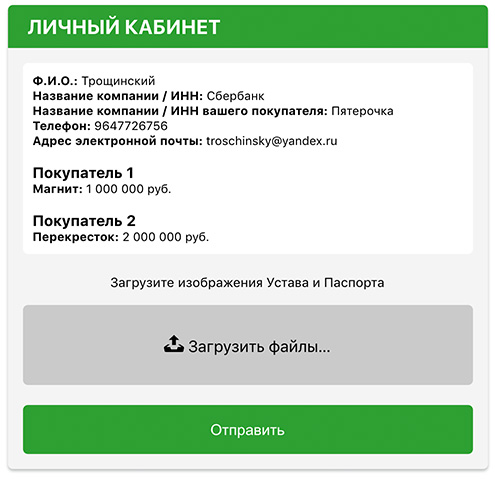
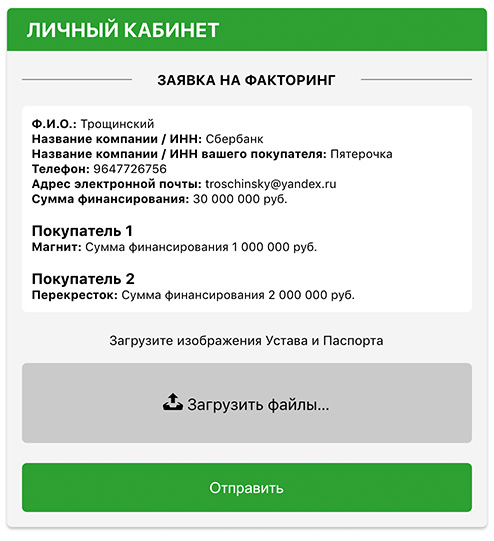
add

diff --git a/build/static/js/main.0f7b8055.chunk.js b/build/static/js/main.0f7b8055.chunk.js
@@ -1,0 +1,2 @@
+(this.webpackJsonpsbf_form_test=this.webpackJsonpsbf_form_test||[]).push([[0],{100:function(e,t,a){e.exports=a(208)},168:function(e,t,a){},169:function(e,t,a){},208:function(e,t,a){"use strict";a.r(t);var n=a(0),r=a.n(n),l=a(44),c=a.n(l),m=a(17),i=a(31),o=a(8),u=a(93),s=a(211),d=a(97),p=a(18),E={buyerForms:[],orderData:{},buyerData:[],step:"1"},b=function(e){return{type:"IS_STEP",step:e}},f=function(){var e=arguments.length>0&&void 0!==arguments[0]?arguments[0]:E,t=arguments.length>1?arguments[1]:void 0;switch(t.type){case"ADD_BUYER":return Object(p.a)(Object(p.a)({},e),{},{buyerForms:[].concat(Object(d.a)(e.buyerForms),[t.formArray])});case"IS_STEP":return Object(p.a)(Object(p.a)({},e),{},{step:t.step});case"SET_ORDER_DATA":return Object(p.a)(Object(p.a)({},e),{},{orderData:t.data});case"SET_BUYER_DATA":return Object(p.a)(Object(p.a)({},e),{},{buyerData:t.dataBuyer});default:return e}},y=Object(o.c)({dataReduser:f,form:s.a}),g=Object(o.d)(y,Object(o.a)(u.a)),v=(a(168),a(7)),_=(a(169),a(6)),h=a.n(_),B=a(46),x=a(98),F=a(210),D=a(209),S=a(95),A=a(96),O=a.n(A),j={required:function(e){return e?void 0:"\u041e\u0431\u044f\u0437\u0430\u0442\u0435\u043b\u044c\u043d\u043e\u0435 \u0434\u043b\u044f \u0437\u0430\u043f\u043e\u043b\u043d\u0435\u043d\u0438\u044f \u043f\u043e\u043b\u0435"},email:function(e){return e&&!/^[A-Z0-9._%+-]+@[A-Z0-9.-]+\.[A-Z]{2,4}$/i.test(e)?"\u041d\u0435\u043a\u043e\u0440\u0440\u0435\u043a\u0442\u043d\u044b\u0439 \u0430\u0434\u0440\u0435\u0441 \u044d\u043b\u0435\u043a\u0442\u0440\u043e\u043d\u043d\u043e\u0439 \u043f\u043e\u0447\u0442\u044b":void 0},phone:function(e){return function(t){return t.toString().length&&t.toString().length<e?"\u041d\u0435\u043a\u043e\u0440\u0440\u0435\u043a\u0442\u043d\u044b\u0439 \u043d\u043e\u043c\u0435\u0440 \u0442\u0435\u043b\u0435\u0444\u043e\u043d\u0430":void 0}},maxValue:function(e){return function(t){return parseInt(t.replace(/\s/g,""))&&parseInt(t.replace(/\s/g,""))>e?"\u0421\u0443\u043c\u043c\u0430 \u0434\u043e\u043b\u0436\u043d\u0430 \u0431\u044b\u0442\u044c \u043d\u0435 \u0431\u043e\u043b\u044c\u0448\u0435 ".concat(e.toString().replace(/\B(?=(\d{3})+(?!\d))/g," ")," \u0440\u0443\u0431."):void 0}},minValue:function(e){return function(t){return parseInt(t.replace(/\s/g,""))&&parseInt(t.replace(/\s/g,""))<e?"\u0421\u0443\u043c\u043c\u0430 \u0434\u043e\u043b\u0436\u043d\u0430 \u0431\u044b\u0442\u044c \u043d\u0435 \u043c\u0435\u043d\u044c\u0448\u0435 ".concat(e.toString().replace(/\B(?=(\d{3})+(?!\d))/g," ")," \u0440\u0443\u0431."):void 0}},rank:function(e){return e&&e.replace(/[^\d]/g,"").replace(/\B(?=(?:\d{3})+(?!\d))/g," ")}},T=function(e){var t=e.input,a=e.label,n=e.type,l=e.meta,c=l.touched,m=l.error,i=l.warning;return r.a.createElement("div",null,r.a.createElement("div",null,r.a.createElement("input",Object.assign({className:c&&(m||i)?h.a.inputError:h.a.inputStyle},t,{placeholder:a,type:n})),c&&(m&&r.a.createElement("div",{className:h.a.warningText},m)||i&&r.a.createElement("div",null,i))))},w=Object(S.createTextMask)({pattern:"+7(999)999-99-99"}),N=function(e){return r.a.createElement(r.a.Fragment,null,r.a.createElement("div",{className:h.a.line},r.a.createElement("span",null,"\u041f\u043e\u043a\u0443\u043f\u0430\u0442\u0435\u043b\u044c ",parseInt(e.id))),r.a.createElement("li",null,r.a.createElement(F.a,{component:T,label:"\u041d\u0430\u0437\u0432\u0430\u043d\u0438\u0435 \u043a\u043e\u043c\u043f\u0430\u043d\u0438\u0438 / \u0418\u041d\u041d \u0432\u0430\u0448\u0435\u0433\u043e \u043f\u043e\u043a\u0443\u043f\u0430\u0442\u0435\u043b\u044f",type:"text",name:e.name,validate:j.required})),r.a.createElement("li",null,r.a.createElement(F.a,{component:T,label:"\u0421\u0443\u043c\u043c\u0430 \u0444\u0438\u043d\u0430\u043d\u0441\u0438\u0440\u043e\u0432\u0430\u043d\u0438\u044f, \u0440\u0443\u0431.",type:"text",name:e.sum,validate:[j.required,j.maxValue(5e7),j.minValue(3e5)],normalize:j.rank})))},R=Object(D.a)({form:"formData"})((function(e){return r.a.createElement(r.a.Fragment,null,"3"===e.step?r.a.createElement(r.a.Fragment,null,r.a.createElement("div",{className:h.a.approved},"\u0412\u0430\u043c \u043f\u0440\u0435\u0434\u0432\u0430\u0440\u0438\u0442\u0435\u043b\u044c\u043d\u043e \u043e\u0434\u043e\u0431\u0440\u0435\u043d\u043e \u043f\u0440\u0435\u0434\u043b\u043e\u0436\u0435\u043d\u0438\u0435 \u043f\u043e \u0444\u0430\u043a\u0442\u043e\u0440\u0438\u043d\u0433\u0443.",r.a.createElement("br",null)," \u0412 \u0431\u043b\u0438\u0436\u0430\u0439\u0448\u0435\u0435 \u0432\u0440\u0435\u043c\u044f \u0441 \u0432\u0430\u043c\u0438 \u0441\u0432\u044f\u0436\u0435\u0442\u0441\u044f \u043d\u0430\u0448 \u043c\u0435\u043d\u0435\u0434\u0436\u0435\u0440.",r.a.createElement("br",null)),r.a.createElement("div",{style:{textAlign:"center",fontSize:13,paddingBottom:15}},"\u0423\u0436\u0435 \u0441\u0435\u0439\u0447\u0430\u0441, \u0432 \u043b\u0438\u0447\u043d\u043e\u043c \u043a\u0430\u0431\u0438\u043d\u0435\u0442\u0435, \u0432\u044b \u043c\u043e\u0436\u0435\u0442\u0435 \u043f\u0440\u0435\u0434\u043e\u0441\u0442\u0430\u0432\u0438\u0442\u044c",r.a.createElement("br",null),"  \u043d\u0435\u043e\u0431\u0445\u043e\u0434\u0438\u043c\u044b\u0439 \u043f\u0430\u043a\u0435\u0442 \u0434\u043e\u043a\u0443\u043c\u0435\u043d\u0442\u043e\u0432."),r.a.createElement("form",null,r.a.createElement("div",{style:{textAlign:"center"}},r.a.createElement("li",null,r.a.createElement(F.a,{className:h.a.inputCabinet,placeholder:"\u041b\u043e\u0433\u0438\u043d",component:"input",type:"text",name:"login"})),r.a.createElement("li",null,r.a.createElement(F.a,{className:h.a.inputCabinet,placeholder:"\u041f\u0430\u0440\u043e\u043b\u044c",component:"input",type:"password",name:"pass"})),r.a.createElement("div",{style:{fontSize:12,cursor:"pointer"}},r.a.createElement("u",null,"\u0417\u0430\u0431\u044b\u043b\u0438 \u043f\u0430\u0440\u043e\u043b\u044c?"))),r.a.createElement("br",null),r.a.createElement(i.b,{to:"/MyAccount"},r.a.createElement("button",{className:"".concat(h.a.formButton," ").concat(h.a.animation),type:"submit"},"\u0412\u043e\u0439\u0442\u0438 \u0432 \u043b\u0438\u0447\u043d\u044b\u0439 \u043a\u0430\u0431\u0438\u043d\u0435\u0442")))):r.a.createElement("form",{onSubmit:e.handleSubmit},r.a.createElement("li",null,r.a.createElement(F.a,{component:T,label:"\u0424.\u0418.\u041e.",type:"text",name:"fio",validate:j.required})),r.a.createElement("li",null,r.a.createElement(F.a,{component:T,label:"\u041d\u0430\u0437\u0432\u0430\u043d\u0438\u0435 \u043a\u043e\u043c\u043f\u0430\u043d\u0438\u0438 / \u0418\u041d\u041d",type:"text",name:"innComp",validate:j.required})),r.a.createElement("li",null,r.a.createElement(F.a,{component:T,label:"\u041d\u0430\u0437\u0432\u0430\u043d\u0438\u0435 \u043a\u043e\u043c\u043f\u0430\u043d\u0438\u0438 / \u0418\u041d\u041d \u0432\u0430\u0448\u0435\u0433\u043e \u043f\u043e\u043a\u0443\u043f\u0430\u0442\u0435\u043b\u044f",type:"text",name:"innBuyer",validate:j.required})),r.a.createElement("li",null,r.a.createElement(F.a,Object.assign({component:T,label:"+7(___)___-__-__",type:"tel",name:"phone",validate:[j.required,j.phone(10)]},w))),r.a.createElement("li",null,r.a.createElement(F.a,{component:T,label:"\u0410\u0434\u0440\u0435\u0441 \u044d\u043b\u0435\u043a\u0442\u0440\u043e\u043d\u043d\u043e\u0439 \u043f\u043e\u0447\u0442\u044b",type:"email",name:"email",validate:[j.required,j.email]})),r.a.createElement("li",null,r.a.createElement(F.a,{component:T,label:"\u0421\u0443\u043c\u043c\u0430 \u0444\u0438\u043d\u0430\u043d\u0441\u0438\u0440\u043e\u0432\u0430\u043d\u0438\u044f, \u0440\u0443\u0431.",type:"text",name:"sum",validate:[j.required,j.maxValue(5e7),j.minValue(3e5)],normalize:j.rank})),e.buyerForms.map((function(e){return r.a.createElement(N,{key:e.id,id:e.id,name:e.name,sum:e.sum})})),r.a.createElement("button",{onClick:function(){var t={id:void 0!==e.buyerForms[0]?parseInt(e.buyerForms[e.buyerForms.length-1].id)+1:"1",name:void 0!==e.buyerForms[0]?"nameBuyer"+(parseInt(e.buyerForms[e.buyerForms.length-1].id)+1):"nameBuyer1",sum:void 0!==e.buyerForms[0]?"sumBuyer"+(parseInt(e.buyerForms[e.buyerForms.length-1].id)+1):"sumBuyer1"};e.addBuyerForm(t)},className:"".concat(h.a.addButton," ").concat(h.a.animation),type:"button"},"\u0414\u043e\u0431\u0430\u0432\u0438\u0442\u044c \u043f\u043e\u043a\u0443\u043f\u0430\u0442\u0435\u043b\u044f"),"1"===e.step?r.a.createElement(r.a.Fragment,null,r.a.createElement("li",{className:h.a.agree},"\u0414\u0430\u044e \u0441\u043e\u0433\u043b\u0430\u0441\u0438\u0435 \u043d\u0430 \u043e\u0431\u0440\u0430\u0431\u043e\u0442\u043a\u0443 \u043c\u043e\u0438\u0445 \u043f\u0435\u0440\u0441\u043e\u043d\u0430\u043b\u044c\u043d\u044b\u0445 \u0434\u0430\u043d\u043d\u044b\u0445 \u0438 \u043f\u043e\u0434\u0442\u0432\u0435\u0440\u0436\u0434\u0430\u044e \u0444\u0430\u043a\u0442",r.a.createElement("br",null)," \u043e\u0437\u043d\u0430\u043a\u043e\u043c\u043b\u0435\u043d\u0438\u044f \u0441 \u041f\u043e\u043b\u0438\u0442\u0438\u043a\u043e\u0439 \u0432 \u043e\u0442\u043d\u043e\u0448\u0435\u043d\u0438\u0438 \u043e\u0431\u0440\u0430\u0431\u043e\u0442\u043a\u0438 \u043f\u0435\u0440\u0441\u043e\u043d\u0430\u043b\u044c\u043d\u044b\u0445 \u0434\u0430\u043d\u043d\u044b\u0445."),r.a.createElement("div",{style:{textAlign:"center"}},r.a.createElement("button",{className:"".concat(h.a.formButton," ").concat(h.a.animation),type:"submit"},"\u041e\u0442\u043f\u0440\u0430\u0432\u0438\u0442\u044c \u0437\u0430\u044f\u0432\u043a\u0443"))):"2"===e.step?r.a.createElement("div",{style:{textAlign:"center"}},r.a.createElement("img",{src:O.a,alt:""})):null))})),I=Object(m.b)((function(e){return{buyerForms:e.dataReduser.buyerForms,step:e.dataReduser.step}}),{addBuyerForm:function(e){return function(t){t(function(e){return{type:"ADD_BUYER",formArray:e}}(e))}},getStep:function(e){return function(t){t(b(e)),setTimeout((function(){t(b("3"))}),2e3)}},getOrderData:function(e,t){return function(a){a(function(e){return{type:"SET_ORDER_DATA",data:e}}(e)),a(function(e){return{type:"SET_BUYER_DATA",dataBuyer:e}}(t))}}})((function(e){return r.a.createElement(r.a.Fragment,null,r.a.createElement(R,{onSubmit:function(t){console.log(t);for(var a=[],n=[],r=[],l=[],c=0,m=Object.entries(t);c<m.length;c++){var i=Object(x.a)(m[c],2),o=i[0],u=i[1],s=Object(B.a)({},o,u);l.push(s)}for(var d=1;d<=l.length;d++)for(var p in l[d])for(var E=1;E<=l.length;E++)p==="sumBuyer".concat(E)&&a.push(l[d][p]),p==="nameBuyer".concat(E)&&n.push(l[d][p]);for(var b=0;b<a.length;b++){var f={name:n[b],sum:a[b]};r.push(f)}e.getStep("2"),e.getOrderData(t,r)},buyerForms:e.buyerForms,addBuyerForm:e.addBuyerForm,step:e.step}))})),k=Object(m.b)((function(e){return{orderData:e.dataReduser.orderData,dataBuyer:e.dataReduser.buyerData}}),{})((function(e){return r.a.createElement(r.a.Fragment,null,r.a.createElement("div",{className:h.a.headerText},r.a.createElement("b",null,"\u041b\u0418\u0427\u041d\u042b\u0419 \u041a\u0410\u0411\u0418\u041d\u0415\u0422")),r.a.createElement("div",{style:{paddingLeft:15,paddingRight:15,paddingBottom:15,paddingTop:0}},r.a.createElement("div",{className:h.a.line},r.a.createElement("span",null,r.a.createElement("b",null,"\u0417\u0410\u042f\u0412\u041a\u0410 \u041d\u0410 \u0424\u0410\u041a\u0422\u041e\u0420\u0418\u041d\u0413"))),r.a.createElement("br",null),r.a.createElement("div",{className:h.a.acountInfo},r.a.createElement("div",{style:{fontSize:12}},r.a.createElement("div",null,r.a.createElement("b",null,"\u0424.\u0418.\u041e.:")," ",e.orderData.fio),r.a.createElement("div",null,r.a.createElement("b",null,"\u041d\u0430\u0437\u0432\u0430\u043d\u0438\u0435 \u043a\u043e\u043c\u043f\u0430\u043d\u0438\u0438 / \u0418\u041d\u041d:")," ",e.orderData.innComp),r.a.createElement("div",null,r.a.createElement("b",null,"\u041d\u0430\u0437\u0432\u0430\u043d\u0438\u0435 \u043a\u043e\u043c\u043f\u0430\u043d\u0438\u0438 / \u0418\u041d\u041d \u0432\u0430\u0448\u0435\u0433\u043e \u043f\u043e\u043a\u0443\u043f\u0430\u0442\u0435\u043b\u044f:")," ",e.orderData.innBuyer),r.a.createElement("div",null,r.a.createElement("b",null,"\u0422\u0435\u043b\u0435\u0444\u043e\u043d:")," ",e.orderData.phone),r.a.createElement("div",null,r.a.createElement("b",null,"\u0410\u0434\u0440\u0435\u0441 \u044d\u043b\u0435\u043a\u0442\u0440\u043e\u043d\u043d\u043e\u0439 \u043f\u043e\u0447\u0442\u044b:")," ",e.orderData.email),r.a.createElement("div",null,r.a.createElement("b",null,"\u0421\u0443\u043c\u043c\u0430 \u0444\u0438\u043d\u0430\u043d\u0441\u0438\u0440\u043e\u0432\u0430\u043d\u0438\u044f:")," ",e.orderData.sum," \u0440\u0443\u0431.")),e.dataBuyer.map((function(e,t){return r.a.createElement("div",{style:{fontSize:12},key:t},r.a.createElement("div",{style:{fontSize:15,marginTop:15}},r.a.createElement("b",null,"\u041f\u043e\u043a\u0443\u043f\u0430\u0442\u0435\u043b\u044c ",t+1)),r.a.createElement("div",null,r.a.createElement("b",null,e.name,": "),"\u0421\u0443\u043c\u043c\u0430 \u0444\u0438\u043d\u0430\u043d\u0441\u0438\u0440\u043e\u0432\u0430\u043d\u0438\u044f ",e.sum," \u0440\u0443\u0431."))}))),r.a.createElement("div",{style:{textAlign:"center",fontSize:13,paddingBottom:15,marginTop:20}},"\u0417\u0430\u0433\u0440\u0443\u0437\u0438\u0442\u0435 \u0438\u0437\u043e\u0431\u0440\u0430\u0436\u0435\u043d\u0438\u044f \u0423\u0441\u0442\u0430\u0432\u0430 \u0438 \u041f\u0430\u0441\u043f\u043e\u0440\u0442\u0430"),r.a.createElement("div",{className:h.a.box},r.a.createElement("input",{type:"file",name:"pasport",className:h.a.inputfile,multiple:!0}),r.a.createElement("label",null,r.a.createElement("svg",{xmlns:"http://www.w3.org/2000/svg",width:"20",height:"17",viewBox:"0 0 20 17"},r.a.createElement("path",{d:"M10 0l-5.2 4.9h3.3v5.1h3.8v-5.1h3.3l-5.2-4.9zm9.3 11.5l-3.2-2.1h-2l3.4 2.6h-3.5c-.1 0-.2.1-.2.1l-.8 2.3h-6l-.8-2.2c-.1-.1-.1-.2-.2-.2h-3.6l3.4-2.6h-2l-3.2 2.1c-.4.3-.7 1-.6 1.5l.6 3.1c.1.5.7.9 1.2.9h16.3c.6 0 1.1-.4 1.3-.9l.6-3.1c.1-.5-.2-1.2-.7-1.5z"}))," ",r.a.createElement("span",null,"\u0417\u0430\u0433\u0440\u0443\u0437\u0438\u0442\u044c \u0444\u0430\u0439\u043b\u044b\u2026"))),r.a.createElement("button",{className:"".concat(h.a.formButton," ").concat(h.a.animation),type:"submit"},"\u041e\u0442\u043f\u0440\u0430\u0432\u0438\u0442\u044c")))})),q=function(){return r.a.createElement(r.a.Fragment,null,r.a.createElement("div",{className:h.a.headerText},r.a.createElement("b",null,"\u0417\u0410\u042f\u0412\u041a\u0410 \u041d\u0410 \u0424\u0410\u041a\u0422\u041e\u0420\u0418\u041d\u0413")),r.a.createElement("div",{style:{paddingLeft:15,paddingRight:15,paddingBottom:15,paddingTop:15}},r.a.createElement(I,null)))},z=function(){return r.a.createElement("div",{className:"App"},r.a.createElement("div",{className:h.a.main},r.a.createElement(v.a,{exact:!0,path:"/",component:function(){return r.a.createElement(q,null)}}),r.a.createElement(v.a,{exact:!0,path:"/MyAccount",component:function(){return r.a.createElement(k,null)}})))};Boolean("localhost"===window.location.hostname||"[::1]"===window.location.hostname||window.location.hostname.match(/^127(?:\.(?:25[0-5]|2[0-4][0-9]|[01]?[0-9][0-9]?)){3}$/));c.a.render(r.a.createElement(i.a,null,r.a.createElement(m.a,{store:g},r.a.createElement(z,null))),document.getElementById("root")),"serviceWorker"in navigator&&navigator.serviceWorker.ready.then((function(e){e.unregister()})).catch((function(e){console.error(e.message)}))},6:function(e,t,a){e.exports={main:"main_main__20EEA",acountInfo:"main_acountInfo__1HNQr",animation:"main_animation__1HRav",addButton:"main_addButton__1liB4",formButton:"main_formButton__pBF0p",inputStyle:"main_inputStyle__36wJg",inputCabinet:"main_inputCabinet__LgXj8",inputError:"main_inputError__20Qum",agree:"main_agree__tlsoF",approved:"main_approved__21Cvd",headerText:"main_headerText__3fjqd",line:"main_line__2IfL1",warningText:"main_warningText__13wPu",box:"main_box__iU-YD",inputfile:"main_inputfile__VbAiG"}},96:function(e,t,a){e.exports=a.p+"static/media/loader.d867dc60.svg"}},[[100,1,2]]]);
+//# sourceMappingURL=main.0f7b8055.chunk.js.map

diff --git a/build/index.html b/build/index.html
@@ -1,1 +1,1 @@
-<!doctype html><html lang="en"><head><meta charset="utf-8"/><link rel="icon" href="/sbf-form-test/build/favicon.ico"/><meta name="viewport" content="width=device-width,initial-scale=1"/><meta name="theme-color" content="#000000"/><meta name="description" content="Web site created using create-react-app"/><link rel="apple-touch-icon" href="/sbf-form-test/build/logo192.png"/><link rel="manifest" href="/sbf-form-test/build/manifest.json"/><title>React App</title><link href="/sbf-form-test/build/static/css/main.e5afda69.chunk.css" rel="stylesheet"></head><body><noscript>You need to enable JavaScript to run this app.</noscript><div id="root"></div><script>!function(e){function t(t){for(var n,f,l=t[0],i=t[1],a=t[2],c=0,s=[];c<l.length;c++)f=l[c],Object.prototype.hasOwnProperty.call(o,f)&&o[f]&&s.push(o[f][0]),o[f]=0;for(n in i)Object.prototype.hasOwnProperty.call(i,n)&&(e[n]=i[n]);for(p&&p(t);s.length;)s.shift()();return u.push.apply(u,a||[]),r()}function r(){for(var e,t=0;t<u.length;t++){for(var r=u[t],n=!0,l=1;l<r.length;l++){var i=r[l];0!==o[i]&&(n=!1)}n&&(u.splice(t--,1),e=f(f.s=r[0]))}return e}var n={},o={1:0},u=[];function f(t){if(n[t])return n[t].exports;var r=n[t]={i:t,l:!1,exports:{}};return e[t].call(r.exports,r,r.exports,f),r.l=!0,r.exports}f.m=e,f.c=n,f.d=function(e,t,r){f.o(e,t)||Object.defineProperty(e,t,{enumerable:!0,get:r})},f.r=function(e){"undefined"!=typeof Symbol&&Symbol.toStringTag&&Object.defineProperty(e,Symbol.toStringTag,{value:"Module"}),Object.defineProperty(e,"__esModule",{value:!0})},f.t=function(e,t){if(1&t&&(e=f(e)),8&t)return e;if(4&t&&"object"==typeof e&&e&&e.__esModule)return e;var r=Object.create(null);if(f.r(r),Object.defineProperty(r,"default",{enumerable:!0,value:e}),2&t&&"string"!=typeof e)for(var n in e)f.d(r,n,function(t){return e[t]}.bind(null,n));return r},f.n=function(e){var t=e&&e.__esModule?function(){return e.default}:function(){return e};return f.d(t,"a",t),t},f.o=function(e,t){return Object.prototype.hasOwnProperty.call(e,t)},f.p="/sbf-form-test/build/";var l=this.webpackJsonpsbf_form_test=this.webpackJsonpsbf_form_test||[],i=l.push.bind(l);l.push=t,l=l.slice();for(var a=0;a<l.length;a++)t(l[a]);var p=i;r()}([])</script><script src="/sbf-form-test/build/static/js/2.b7bafeb5.chunk.js"></script><script src="/sbf-form-test/build/static/js/main.5313de80.chunk.js"></script></body></html>
+<!doctype html><html lang="en"><head><meta charset="utf-8"/><link rel="icon" href="/sbf-form-test/build/favicon.ico"/><meta name="viewport" content="width=device-width,initial-scale=1"/><meta name="theme-color" content="#000000"/><meta name="description" content="Web site created using create-react-app"/><link rel="apple-touch-icon" href="/sbf-form-test/build/logo192.png"/><link rel="manifest" href="/sbf-form-test/build/manifest.json"/><title>React App</title><link href="/sbf-form-test/build/static/css/main.aedfeaaa.chunk.css" rel="stylesheet"></head><body><noscript>You need to enable JavaScript to run this app.</noscript><div id="root"></div><script>!function(e){function t(t){for(var n,f,l=t[0],i=t[1],a=t[2],c=0,s=[];c<l.length;c++)f=l[c],Object.prototype.hasOwnProperty.call(o,f)&&o[f]&&s.push(o[f][0]),o[f]=0;for(n in i)Object.prototype.hasOwnProperty.call(i,n)&&(e[n]=i[n]);for(p&&p(t);s.length;)s.shift()();return u.push.apply(u,a||[]),r()}function r(){for(var e,t=0;t<u.length;t++){for(var r=u[t],n=!0,l=1;l<r.length;l++){var i=r[l];0!==o[i]&&(n=!1)}n&&(u.splice(t--,1),e=f(f.s=r[0]))}return e}var n={},o={1:0},u=[];function f(t){if(n[t])return n[t].exports;var r=n[t]={i:t,l:!1,exports:{}};return e[t].call(r.exports,r,r.exports,f),r.l=!0,r.exports}f.m=e,f.c=n,f.d=function(e,t,r){f.o(e,t)||Object.defineProperty(e,t,{enumerable:!0,get:r})},f.r=function(e){"undefined"!=typeof Symbol&&Symbol.toStringTag&&Object.defineProperty(e,Symbol.toStringTag,{value:"Module"}),Object.defineProperty(e,"__esModule",{value:!0})},f.t=function(e,t){if(1&t&&(e=f(e)),8&t)return e;if(4&t&&"object"==typeof e&&e&&e.__esModule)return e;var r=Object.create(null);if(f.r(r),Object.defineProperty(r,"default",{enumerable:!0,value:e}),2&t&&"string"!=typeof e)for(var n in e)f.d(r,n,function(t){return e[t]}.bind(null,n));return r},f.n=function(e){var t=e&&e.__esModule?function(){return e.default}:function(){return e};return f.d(t,"a",t),t},f.o=function(e,t){return Object.prototype.hasOwnProperty.call(e,t)},f.p="/sbf-form-test/build/";var l=this.webpackJsonpsbf_form_test=this.webpackJsonpsbf_form_test||[],i=l.push.bind(l);l.push=t,l=l.slice();for(var a=0;a<l.length;a++)t(l[a]);var p=i;r()}([])</script><script src="/sbf-form-test/build/static/js/2.b7bafeb5.chunk.js"></script><script src="/sbf-form-test/build/static/js/main.0f7b8055.chunk.js"></script></body></html>

diff --git a/build/static/css/main.aedfeaaa.chunk.css b/build/static/css/main.aedfeaaa.chunk.css
@@ -1,2 +1,2 @@
 body{margin:0;font-family:-apple-system,BlinkMacSystemFont,"Segoe UI","Roboto","Oxygen","Ubuntu","Cantarell","Fira Sans","Droid Sans","Helvetica Neue",sans-serif;-webkit-font-smoothing:antialiased;-moz-osx-font-smoothing:grayscale}code{font-family:source-code-pro,Menlo,Monaco,Consolas,"Courier New",monospace}.App{width:100%;height:100%;top:0;left:0;padding-top:20px;padding-bottom:20px;display:flex;align-items:center;align-content:center;justify-content:center;overflow:auto}.main_main__20EEA{background-color:#f4f4f4;box-shadow:0 2px 3px #bec0c1}.main_acountInfo__1HNQr,.main_main__20EEA{position:relative;border-radius:5px;border:0 solid #d3d2d2}.main_acountInfo__1HNQr{background-color:#fff;padding:10px}.main_animation__1HRav{transition:all .3s ease}.main_addButton__1liB4{background-color:#000;border:none;color:#fff;padding:8px 15px;border-radius:5px;text-decoration:none;font-size:15px;margin-top:20px;cursor:pointer;outline:none}.main_addButton__1liB4:hover{background-color:#696969}.main_formButton__pBF0p{background-color:#2da032;width:100%;border:none;color:#fff;padding:16px 32px;border-radius:5px;text-decoration:none;font-size:15px;cursor:pointer;outline:none}.main_formButton__pBF0p:hover{background-color:#fd9929}.main_inputStyle__36wJg{margin:10px auto;width:450px;border-radius:5px;border:1px solid #999;padding:10px}input::-webkit-input-placeholder{color:#000}.main_inputStyle__36wJg:hover{border:1px solid #000}.main_inputStyle__36wJg:focus{outline:none;border:1px solid #2da032}.main_inputCabinet__LgXj8{margin:5px auto;width:250px;text-align:center;border-radius:5px;border:1px solid #999;padding:10px}.main_inputCabinet__LgXj8:hover{border:1px solid #000}.main_inputCabinet__LgXj8:focus{outline:none;border:1px solid #2da032}.main_inputError__20Qum{margin:10px auto;width:450px;border-radius:5px;border:1px solid #fc0000;padding:10px}li{padding:0;display:block;list-style:none;margin:0}.main_agree__tlsoF{padding-top:25px;padding-bottom:10px;font-size:12px;text-align:center}.main_approved__21Cvd{padding-top:15px;padding-bottom:25px;font-size:16px;font-weight:700;color:#2da032;text-align:center}.main_headerText__3fjqd{font-size:25px}.main_line__2IfL1{font-size:14px;margin-top:20px;text-align:center;position:relative}.main_line__2IfL1 span{background-color:#f4f4f4;position:relative;z-index:1;padding:0 25px}.main_line__2IfL1:after{content:"";display:block;width:100%;height:1px;background-color:#858585;position:absolute;top:50%;margin-top:-1px;z-index:0}.main_headerText__3fjqd{padding:10px 10px 10px 20px;background-color:#2da032;border-top-left-radius:5px;border-top-right-radius:5px;color:#fff;font-size:20px}.main_warningText__13wPu{font-size:12px;color:red}.main_box__iU-YD{background-color:#cacaca;border-radius:5px;text-align:center;padding-top:30px;margin-bottom:20px;width:450px;height:50px}.main_inputfile__VbAiG{width:.1px;height:.1px;opacity:0;overflow:hidden;position:absolute;z-index:-1}
-/*# sourceMappingURL=main.e5afda69.chunk.css.map */
+/*# sourceMappingURL=main.aedfeaaa.chunk.css.map */

diff --git a/src/Components/MyAccount.jsx b/src/Components/MyAccount.jsx
@@ -8,7 +8,8 @@ const MyAccount = (props) => {
         <>
         
         <div className={style.headerText}><b>ЛИЧНЫЙ КАБИНЕТ</b></div>
-        <div style={ {paddingLeft: 15, paddingRight: 15, paddingBottom: 15, paddingTop: 15} }>
+        <div style={ {paddingLeft: 15, paddingRight: 15, paddingBottom: 15, paddingTop: 0} }>
+        <div className={style.line}><span><b>ЗАЯВКА НА ФАКТОРИНГ</b></span></div><br/>
             <div className={style.acountInfo}>
                 <div style={{ fontSize: 12}}>
                     <div><b>Ф.И.О.:</b> {props.orderData.fio}</div>
@@ -16,6 +17,7 @@ const MyAccount = (props) => {
                     <div><b>Название компании / ИНН вашего покупателя:</b> {props.orderData.innBuyer}</div>
                     <div><b>Телефон:</b> {props.orderData.phone}</div>
                     <div><b>Адрес электронной почты:</b> {props.orderData.email}</div>
+                    <div><b>Сумма финансирования:</b> {props.orderData.sum} руб.</div>
                 </div>
 
                 {
@@ -23,7 +25,7 @@ const MyAccount = (props) => {
                         return(
                             <div style={{fontSize: 12}} key={index}>
                                 <div style={{fontSize: 15, marginTop: 15}}><b>Покупатель {index+1}</b></div>
-                                <div><b>{buyer.name}: </b>{ buyer.sum } руб.</div>
+                                <div><b>{buyer.name}: </b>Сумма финансирования { buyer.sum } руб.</div>
                             </div>
                         )
                     })

diff --git a/build/precache-manifest.0827ae3535661965cd2ab25a49c5f758.js b/build/precache-manifest.0827ae3535661965cd2ab25a49c5f758.js
@@ -1,11 +1,11 @@
 self.__precacheManifest = (self.__precacheManifest || []).concat([
   {
-    "revision": "340c816a806474a55edff4b3f87c4347",
+    "revision": "e06455a6c77a732c35187cd1c5c1554d",
     "url": "/sbf-form-test/build/index.html"
   },
   {
-    "revision": "e866db0d438371163cb9",
-    "url": "/sbf-form-test/build/static/css/main.e5afda69.chunk.css"
+    "revision": "352995c4de2450f55b07",
+    "url": "/sbf-form-test/build/static/css/main.aedfeaaa.chunk.css"
   },
   {
     "revision": "1a27dc37e86ef82df77a",
@@ -16,8 +16,8 @@ self.__precacheManifest = (self.__precacheManifest || []).concat([
     "url": "/sbf-form-test/build/static/js/2.b7bafeb5.chunk.js.LICENSE.txt"
   },
   {
-    "revision": "e866db0d438371163cb9",
-    "url": "/sbf-form-test/build/static/js/main.5313de80.chunk.js"
+    "revision": "352995c4de2450f55b07",
+    "url": "/sbf-form-test/build/static/js/main.0f7b8055.chunk.js"
   },
   {
     "revision": "8145a0713fb2a4769c77",

diff --git a/build/service-worker.js b/build/service-worker.js
@@ -14,7 +14,7 @@
 importScripts("https://storage.googleapis.com/workbox-cdn/releases/4.3.1/workbox-sw.js");
 
 importScripts(
-  "/sbf-form-test/build/precache-manifest.03ae46dbd59c85f5a70d34c6dc939390.js"
+  "/sbf-form-test/build/precache-manifest.0827ae3535661965cd2ab25a49c5f758.js"
 );
 
 self.addEventListener('message', (event) => {

diff --git a/src/css/main.module.css b/src/css/main.module.css
@@ -12,7 +12,6 @@
     border-radius: 5px;
     padding: 10px;
     border: 0px solid #d3d2d2;
-    /* box-shadow:  0px 2px 3px #bec0c1; */
 }
 
 .animation {
